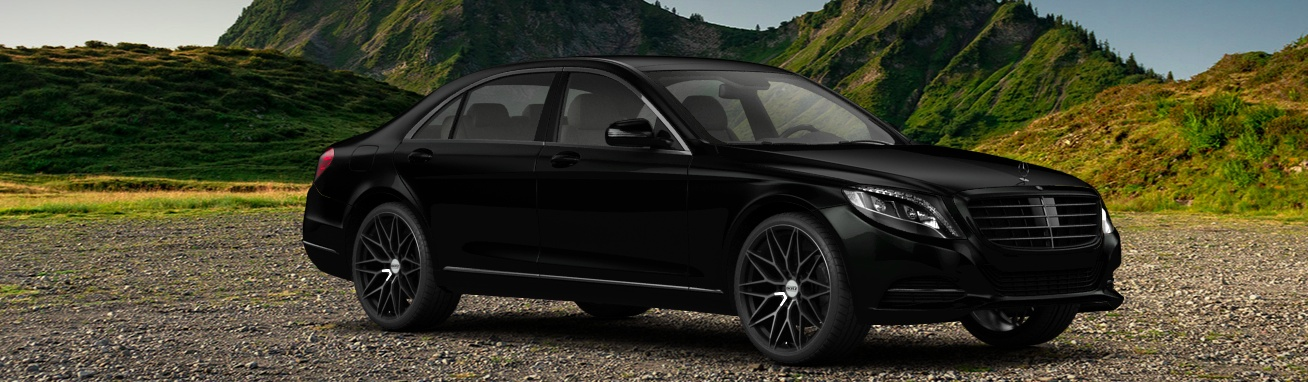
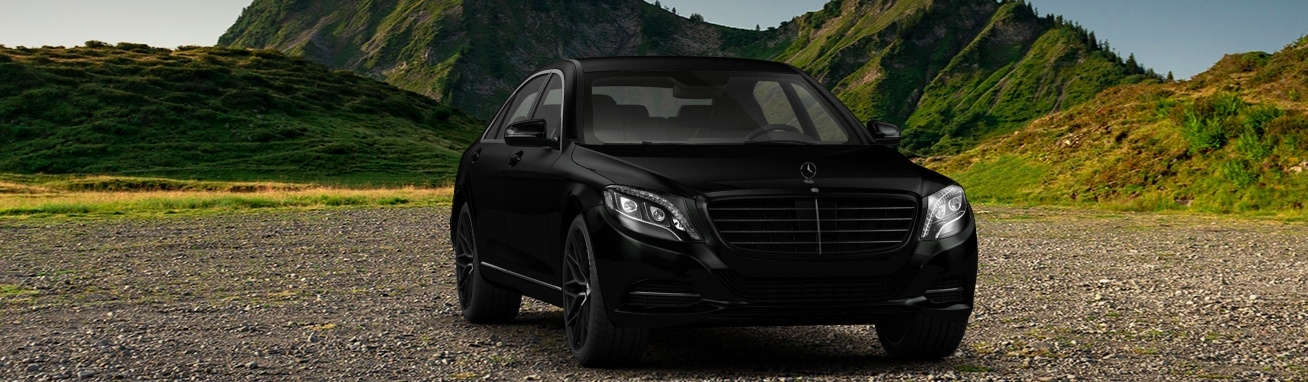
Fix react-360

Changed region(s): [[0.2141, 0.144, 0.8563, 1.0]]

diff --git a/client/src/components/React360/React360.js b/client/src/components/React360/React360.js
@@ -10,7 +10,7 @@ class React360 extends Component {
 
   state = {
     dragging: false,
-    imageIndex: 1,
+    imageIndex: 0,
     dragStartIndex: 0
   };
 
@@ -39,11 +39,14 @@ class React360 extends Component {
 
   updateImageIndex = currentPosition => {
     let numImages = this.props.numImages;
+    console.log('--->', numImages);
     const pixelsPerImage = pixelsPerDegree * (360 / numImages);
     const { dragStart, imageIndex, dragStartIndex } = this.state;
+    console.log(this.state);
     // pixels moved
     let dx = (currentPosition - dragStart) / pixelsPerImage;
     let index = Math.floor(dx) % numImages;
+    console.log(index);
 
     if (index < 0) {
       index = numImages + index - 1;
@@ -73,8 +76,8 @@ class React360 extends Component {
         <img
           className="react-360-img"
           alt=""
-          src={(`../../${this.props.dir}/car-${imageIndex}.jpg`)}
-          // src={require(`../../images/m-d1/car-${imageIndex}.jpg`)}
+          src={(`/${this.props.dir}/car-${imageIndex}.jpg`)}
+        // src={require(`../../images/m-d1/car-${imageIndex}.jpg`)}
         />
       </div>
     );

diff --git a/client/src/components/Configurator/Configurator.js b/client/src/components/Configurator/Configurator.js
@@ -1,10 +1,10 @@
 import './Configurator.css';
-import  React360  from '../React360/React360'
+import React360 from '../React360/React360'
 import { useEffect, useState } from 'react';
-import { useHistory} from 'react-router-dom';
+import { useHistory } from 'react-router-dom';
 
 function Configurator() {
-  
+
   const [car, setCar] = useState('images/m-d1')
   // const history = useHistory();
   // useEffect(() => {
@@ -30,12 +30,12 @@ function Configurator() {
 
   return (
     <div>
-      <React360  dir={car} numImages={12}/>
-      <div className="cloudimage-360" data-folder={car} data-filename="car-{index}.jpg" data-amount="12" data-hide-360-logo='true'/>
-      <div>{car}</div>
+      <React360 dir={car} numImages={12} />
+      {/* <div className="cloudimage-360" data-folder={car} data-filename="car-{index}.jpg" data-amount="12" data-hide-360-logo='true' /> */}
+      {/* <div>{car}</div>
 
       <button onClick={handlerDisks1}>disk 1</button>
-      <button onClick={handlerDisks2}>disk 2</button>
+      <button onClick={handlerDisks2}>disk 2</button> */}
       <div className="container">
 
 

diff --git a/server/Routes/UserRouter.js b/server/Routes/UserRouter.js
@@ -42,7 +42,7 @@ router.post('/login', async (req, res) => {
   return res.sendStatus(202);
 });
 
-router.get('/check', (req, res) => {
+router.get('/check', async (req, res) => {
   if (req.session.userID) {
     try {
       const user = await User.findById(req.session.userID);
